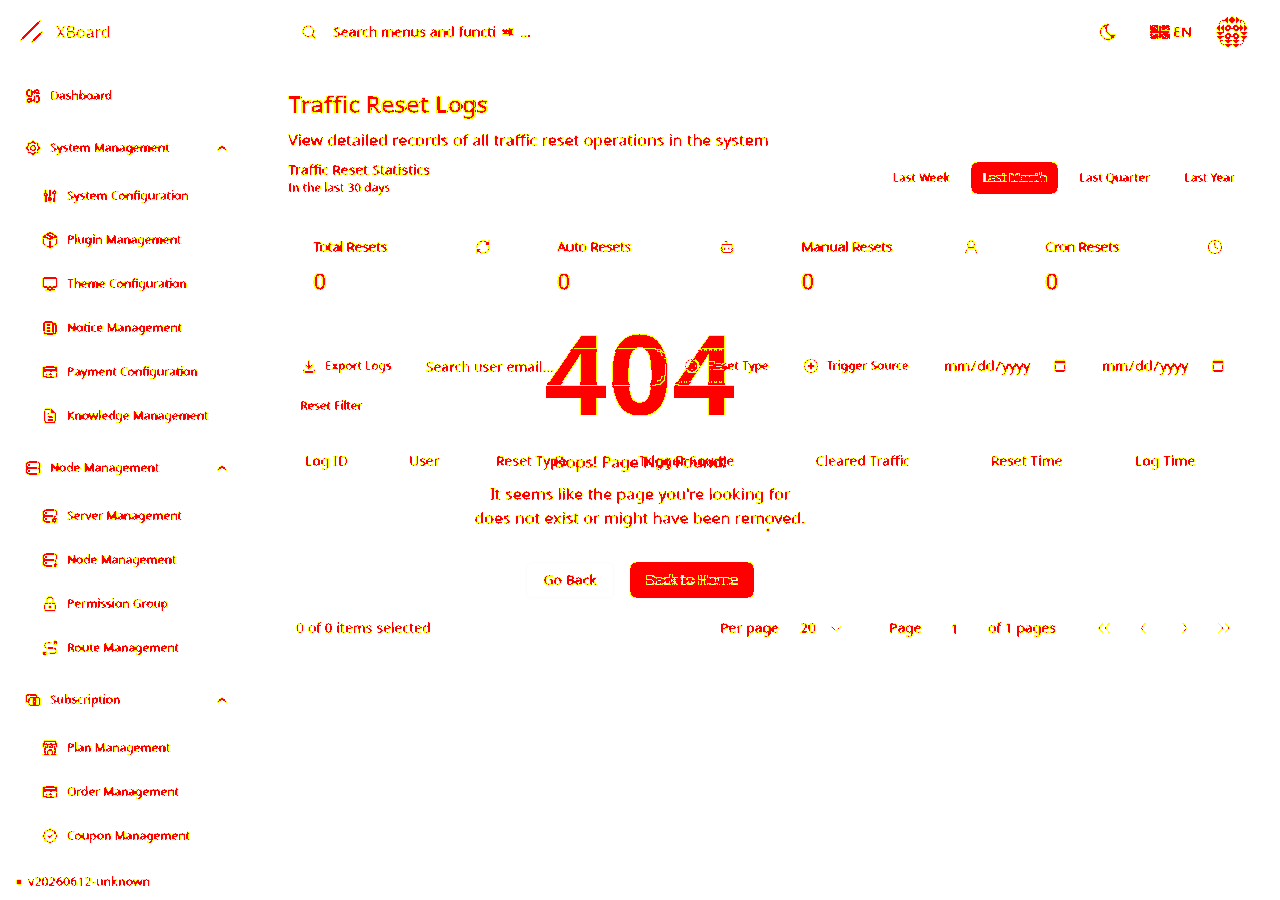
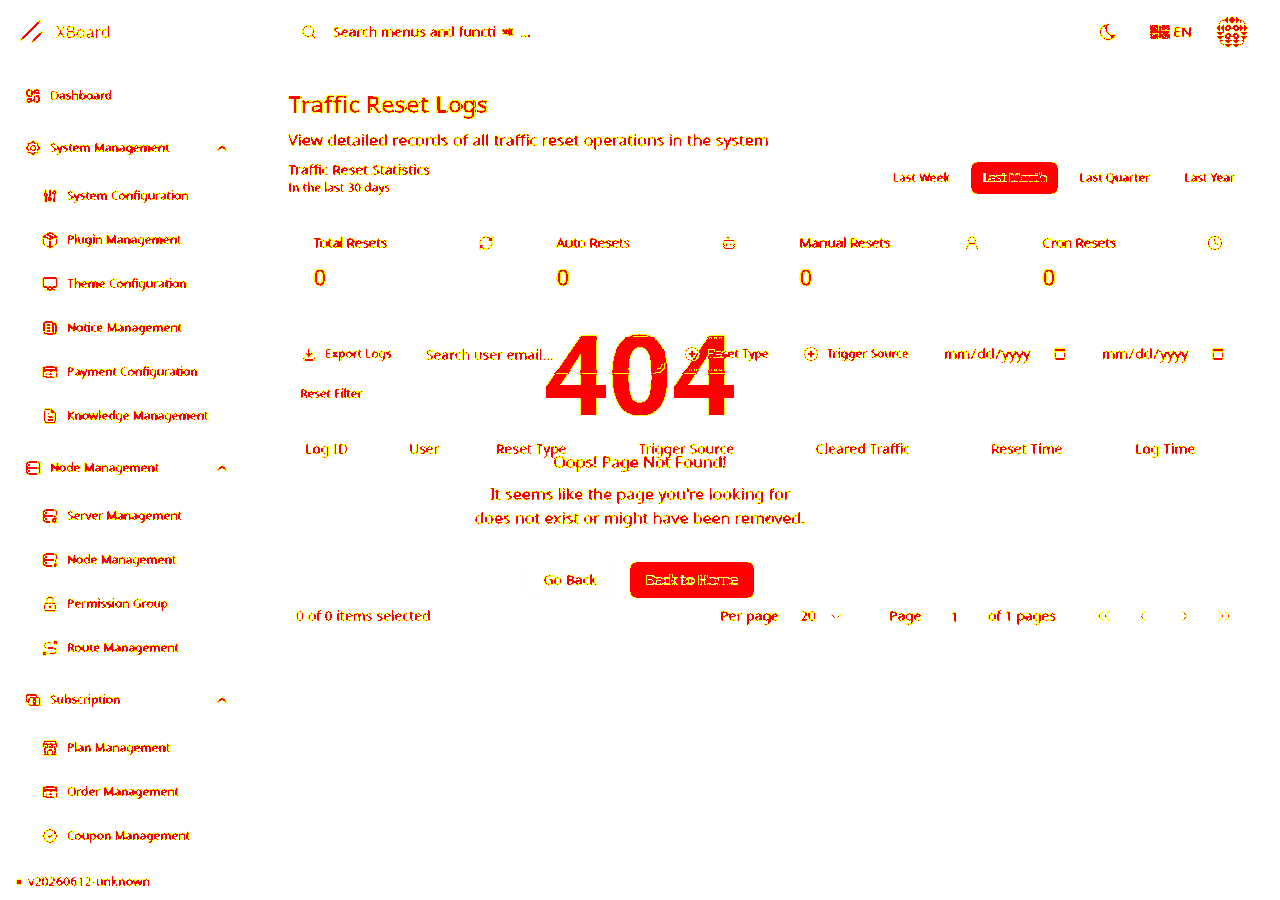
fix(admin): sign-in slate-50/shadow-sm, server dialog rhythm, gate selectors
- Login: bg-slate-50 + shadow-sm to match 7001 computed styles
- Server add dialog: xb-stack-gap, py-4, flat dynamic-rate row, no muted header
- Plan grids gap-2; user-create space-y-2; traffic-reset tighter stats grid
- SuffixInput: remove z-[-1] stacking hack
- visual-gate: add 添加服务器 selector for server-add

diff --git a/frontend/admin/src/pages/modules/PlanPage.tsx b/frontend/admin/src/pages/modules/PlanPage.tsx
@@ -463,7 +463,7 @@ export default function PlanPage() {
           </DialogHeader>
           <div className="min-h-0 flex-1 overflow-y-auto">
           <div className="xb-stack-gap px-6 py-4 text-sm">
-            <div className="grid grid-cols-1 gap-4 md:grid-cols-2">
+            <div className="grid grid-cols-1 gap-2 md:grid-cols-2">
               <div className="space-y-1.5">
                 <Label className={dialogFieldLabelCls}>{t('subscribe.plan.form.name.label')}</Label>
                 <input
@@ -483,7 +483,7 @@ export default function PlanPage() {
                 />
               </div>
             </div>
-            <div className="grid grid-cols-1 gap-4 md:grid-cols-2">
+            <div className="grid grid-cols-1 gap-2 md:grid-cols-2">
               <div className="space-y-1.5">
                 <div className="flex items-center justify-between gap-2">
                   <Label className={dialogSubFieldLabelCls}>{t('subscribe.plan.form.group.label')}</Label>
@@ -524,7 +524,7 @@ export default function PlanPage() {
                 />
               </div>
             </div>
-            <div className="grid grid-cols-1 gap-4 md:grid-cols-2">
+            <div className="grid grid-cols-1 gap-2 md:grid-cols-2">
               <div className="space-y-1.5">
                 <Label className={dialogFieldLabelCls}>{t('subscribe.plan.form.speed.label')}</Label>
                 <SuffixInput
@@ -558,7 +558,7 @@ export default function PlanPage() {
                 />
               </div>
             </div>
-            <div className="grid grid-cols-1 gap-4 md:grid-cols-2">
+            <div className="grid grid-cols-1 gap-2 md:grid-cols-2">
               <div className="space-y-1.5">
                 <Label className={dialogFieldLabelCls}>{t('subscribe.plan.form.capacity.label')}</Label>
                 <SuffixInput

diff --git a/frontend/admin/src/pages/modules/ServerManagePage.tsx b/frontend/admin/src/pages/modules/ServerManagePage.tsx
@@ -1516,7 +1516,7 @@ export default function ServerManagePage() {
 
         <DialogContent className="!flex h-[838px] max-h-[838px] flex-col gap-0 overflow-hidden p-0 sm:max-w-[576px]">
 
-          <div className="shrink-0 border-b bg-muted/20 px-6 pb-4 pt-6">
+          <div className="shrink-0 border-b px-6 pb-4 pt-6">
 
             <div className="flex items-center justify-between pr-8">
 
@@ -1547,8 +1547,8 @@ export default function ServerManagePage() {
           </div>
 
           <div className="flex h-[75vh] min-h-[500px] flex-col">
-          <div className="min-h-0 flex-1 overflow-y-auto px-6 py-6">
-          <div className="space-y-6">
+          <div className="min-h-0 flex-1 overflow-y-auto px-6 py-4">
+          <div className="xb-stack-gap">
 
             <div className="flex gap-4">
 
@@ -1616,7 +1616,7 @@ export default function ServerManagePage() {
 
             </div>
 
-            <div className="flex items-center justify-between gap-3 rounded-lg border px-3 py-2">
+            <div className="flex items-center justify-between gap-3 py-1">
 
               <div>
 

diff --git a/frontend/admin/src/pages/LoginPage.tsx b/frontend/admin/src/pages/LoginPage.tsx
@@ -73,7 +73,7 @@ export default function LoginPage() {
   }
 
   return (
-    <div className="container relative flex min-h-svh flex-col items-center justify-center bg-white px-4 py-8 lg:max-w-none lg:px-0">
+    <div className="container relative flex min-h-svh flex-col items-center justify-center bg-slate-50 px-4 py-8 lg:max-w-none lg:px-0">
       <div className="absolute right-4 top-4 md:right-8 md:top-8">
         <DropdownMenu>
           <DropdownMenuTrigger asChild>
@@ -108,7 +108,7 @@ export default function LoginPage() {
           <p className="text-sm text-muted-foreground">{settings.description ?? ''}</p>
         </div>
 
-        <div className="rounded-xl border bg-card p-4 text-card-foreground shadow-auth sm:p-6">
+        <div className="rounded-xl border bg-card p-4 text-card-foreground shadow-sm sm:p-6">
           <div className="flex flex-col gap-6">
           <div className="flex flex-col space-y-2 text-left">
             <h1 className="text-xl font-semibold tracking-tight sm:text-2xl">

diff --git a/frontend/admin/src/pages/modules/TrafficResetPage.tsx b/frontend/admin/src/pages/modules/TrafficResetPage.tsx
@@ -315,7 +315,7 @@ export default function TrafficResetPage() {
         <p className="mt-2 text-muted-foreground">{t('user.traffic_reset_logs.description')}</p>
       </div>
 
-      <div className="mb-6 space-y-4">
+      <div className="mb-4 space-y-3">
         <div className="flex flex-wrap items-center justify-between gap-2">
           <div>
             <h3 className="text-sm font-medium">{t('user.traffic_reset.stats.title')}</h3>
@@ -337,7 +337,7 @@ export default function TrafficResetPage() {
             ))}
           </div>
         </div>
-        <div className="grid gap-4 md:grid-cols-2 xl:grid-cols-4">
+        <div className="grid gap-3 md:grid-cols-2 xl:grid-cols-4">
           <StatCard
             title={t('user.traffic_reset.stats.total_resets')}
             value={String(stats.total_resets ?? 0)}

diff --git a/frontend/admin/src/pages/modules/UserPage.tsx b/frontend/admin/src/pages/modules/UserPage.tsx
@@ -1266,7 +1266,7 @@ export default function UserPage() {
             <DialogTitle>{t('user.generate.title')}</DialogTitle>
           </DialogHeader>
           <div className="min-h-0 flex-1 overflow-y-auto">
-            <div className="xb-stack-gap px-6 py-4 text-sm">
+            <div className="space-y-2 px-6 py-4 text-sm">
             <div className="space-y-2">
               <Label className={dialogFieldLabelCls}>
                 {t('user.generate.form.email')}

diff --git a/frontend/admin/src/components/shared/SuffixInput.tsx b/frontend/admin/src/components/shared/SuffixInput.tsx
@@ -21,7 +21,6 @@ function addonCls(className: string | undefined, rounded: 'left' | 'right') {
     'inline-flex shrink-0 items-center border border-input bg-transparent px-3 text-muted-foreground shadow-sm',
     h,
     dialog ? 'font-mono text-xs' : 'text-sm',
-    'z-[-1]',
     rounded === 'left' ? 'rounded-l-md rounded-r-none border-r-0' : 'rounded-r-md rounded-l-none border-l-0',
   )
 }
